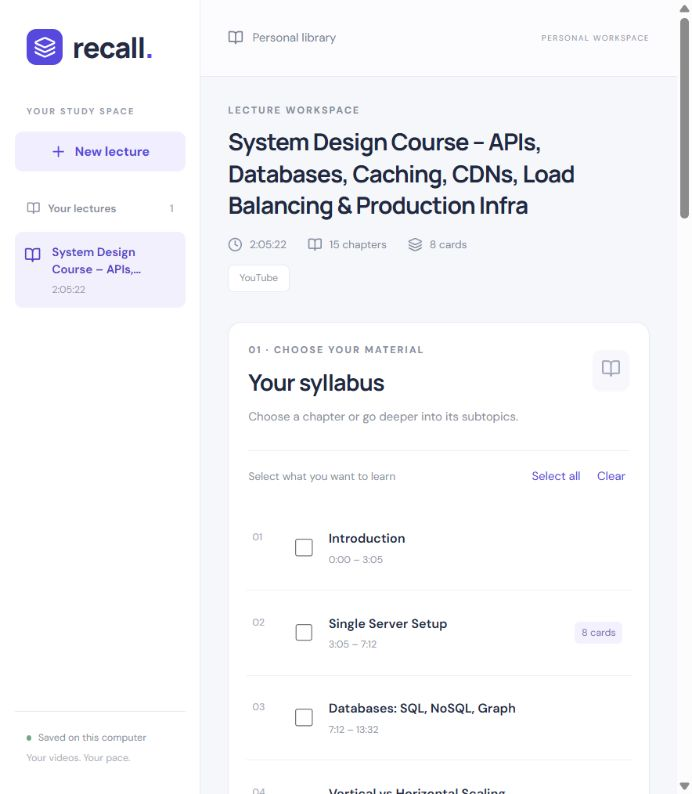
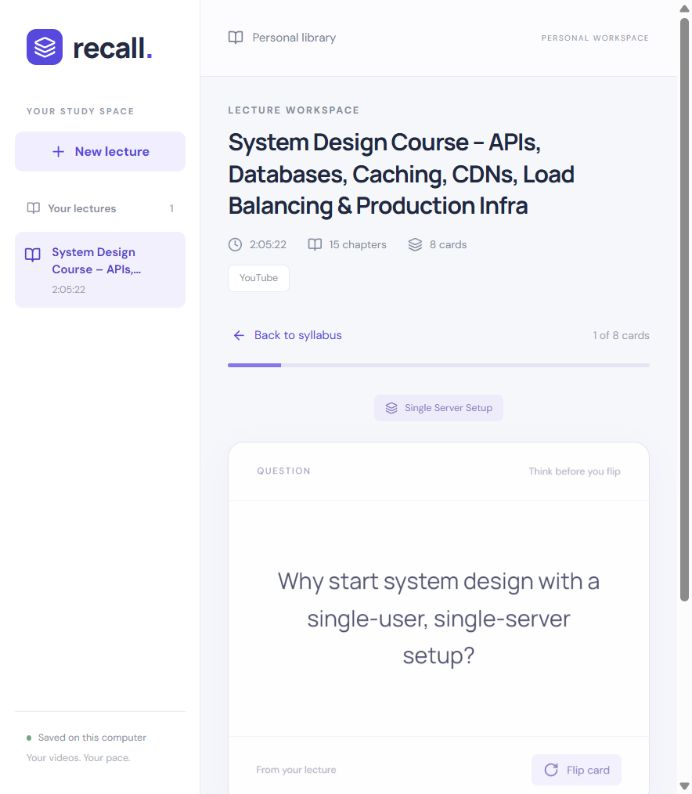
fix: restore active lecture and infer uncovered topics

diff --git a/web/src/App.test.tsx b/web/src/App.test.tsx
@@ -1,6 +1,7 @@
 import {render,screen} from '@testing-library/react';
-import {expect,test,vi} from 'vitest';
+import {beforeEach,expect,test,vi} from 'vitest';
 import App from './App';
+beforeEach(()=>sessionStorage.clear());
 test('a prepared syllabus has no automatic flashcards and empty selection disables generation',async()=>{
  const lesson={id:'lesson',title:'Test lecture',duration:600,source_kind:'youtube',youtube_id:'C842vFY5kRo',media_url:null,syllabus:[{id:'p',title:'Actual chapter',start:0,end:600,parent_id:null,inferred:false}],cards:[],gaps:[],completed_intervals:[],jobs:[]};
  vi.stubGlobal('fetch',async(input:RequestInfo|URL)=>new Response(JSON.stringify(String(input).endsWith('/health')?{status:'ok',provider_configured:true}:String(input).endsWith('/lectures')?[{id:'lesson',title:'Test lecture',duration:600}]:lesson),{status:200,headers:{'Content-Type':'application/json'}}));
@@ -8,5 +9,20 @@ test('a prepared syllabus has no automatic flashcards and empty selection disabl
  expect(await screen.findByRole('checkbox',{name:'Actual chapter'})).toBeInTheDocument();
  expect(screen.getByRole('button',{name:'Generate flashcards'})).toBeDisabled();
  expect(screen.getByText('No cards generated yet')).toBeInTheDocument();
+ vi.unstubAllGlobals();
+});
+
+test('reload restores the active older lecture and its current answer',async()=>{
+ const base={duration:600,source_kind:'youtube',youtube_id:'C842vFY5kRo',media_url:null,syllabus:[],gaps:[],completed_intervals:[],jobs:[]};
+ const cards=[0,1].map(index=>({id:'old-card-'+index,lecture_id:'older',topic_id:'topic',point_ids:['point'],front:'Old question '+index,back:'Old answer '+index,primary_time:index*10,source_start:index*10,source_end:index*10+5,source_segment_ids:['segment'],source_excerpt:'Old evidence'}));
+ const old={...base,id:'older',title:'Older lecture',cards};
+ const recent={...base,id:'recent',title:'Recent lecture',cards:[]};
+ sessionStorage.setItem('recall-active-lecture','older');
+ sessionStorage.setItem('recall-session-older',JSON.stringify({cardIds:cards.map(c=>c.id),index:1,flipped:true}));
+ vi.stubGlobal('fetch',async(input:RequestInfo|URL)=>new Response(JSON.stringify(String(input).endsWith('/health')?{status:'ok',provider_configured:true}:String(input).endsWith('/lectures')?[{id:'recent',title:recent.title,duration:600},{id:'older',title:old.title,duration:600}]:String(input).endsWith('/older')?old:recent),{status:200,headers:{'Content-Type':'application/json'}}));
+ render(<App/>);
+ expect(await screen.findByText('2 of 2 cards')).toBeInTheDocument();
+ expect(screen.getByRole('heading',{name:'Older lecture'})).toBeInTheDocument();
+ expect(screen.getByRole('button',{name:'Show question'})).toHaveTextContent('Old answer 1');
  vi.unstubAllGlobals();
 });

diff --git a/web/src/App.tsx b/web/src/App.tsx
@@ -15,8 +15,8 @@ export default function App(){
  const activeId=useRef(id);activeId.current=id;
  const [session,setSession]=useState<StudySession|null>(null);const resumed=useRef<string|null>(null);
  async function refresh(target:string){const result=await api.lecture(target);if(activeId.current===target){setLecture(result);if(resumed.current!==target){resumed.current=target;const saved=readSession('recall-session-'+target);if(saved&&result.cards.length){setSession(reconcileSession(saved,result.cards));setLaunch({mode:'all',intervals:[]});}}}}
- useEffect(()=>{let active=true;Promise.all([api.list(),api.health()]).then(([items,health])=>{if(!active)return;setLibrary(items);setConfigured(health.provider_configured);if(items.length)setId(items[0].id);}).catch(()=>{if(active)setError('The local service is unavailable. Start the app service and reload.');});return()=>{active=false;};},[]);
- useEffect(()=>{setLecture(null);setSelection([]);setLaunch(null);setSession(null);resumed.current=null;setError('');if(id)refresh(id).catch(e=>setError(e.message));},[id]);
+ useEffect(()=>{let active=true;Promise.all([api.list(),api.health()]).then(([items,health])=>{if(!active)return;setLibrary(items);setConfigured(health.provider_configured);let preferred:string|null=null;try{preferred=sessionStorage.getItem('recall-active-lecture');}catch{}const initial=items.find(item=>item.id===preferred)||items[0];if(initial)setId(initial.id);}).catch(()=>{if(active)setError('The local service is unavailable. Start the app service and reload.');});return()=>{active=false;};},[]);
+ useEffect(()=>{setLecture(null);setSelection([]);setLaunch(null);setSession(null);resumed.current=null;setError('');if(id){try{sessionStorage.setItem('recall-active-lecture',id);}catch{}refresh(id).catch(e=>setError(e.message));}},[id]);
  const job=lecture?.jobs.find(j=>j.status==='running'||j.status==='queued')||lecture?.jobs.at(-1);
  const processing=!!job&&['running','queued'].includes(job.status);
  useEffect(()=>{if(!id||!processing)return;const timer=setInterval(()=>{refresh(id).catch(e=>setError(e.message));api.list().then(setLibrary).catch(()=>{});},2000);return()=>clearInterval(timer);},[id,processing]);

diff --git a/backend/app/syllabus/build.py b/backend/app/syllabus/build.py
@@ -1,5 +1,5 @@
 import hashlib,re
-from ..models import Interval,SyllabusNode
+from ..models import SyllabusNode,ChapterSeed
 from ..errors import ProcessingError
 from ..jobs import JobQueue
 from ..importing.youtube import import_youtube
@@ -19,26 +19,35 @@ def chapter_roots(source):
     if roots and cursor<source.duration:roots.append(SyllabusNode(id=node_id(source.lecture_id,cursor,source.duration),title='Additional material',start=cursor,end=source.duration,inferred=True))
     return roots
 
+def inferred_roots(source,proposals,start,end):
+    roots=[]
+    tops=sorted([p for p in proposals if p.parent_start is None and start<=p.start<p.end<=end],key=lambda p:(p.start,p.end))
+    for p in tops:
+        if roots and p.start<roots[-1].end:continue
+        if roots and p.start<=roots[-1].end+2 and re.sub(r'\W','',p.title.casefold())==re.sub(r'\W','',roots[-1].title.casefold()):
+            previous=roots.pop();p=p.model_copy(update={'start':previous.start})
+        cursor=roots[-1].end if roots else start
+        if cursor<p.start:roots.append(SyllabusNode(id=node_id(source.lecture_id,cursor,p.start),title='Additional material',start=cursor,end=p.start,inferred=True))
+        roots.append(SyllabusNode(id=node_id(source.lecture_id,p.start,p.end),title=p.title.strip(),start=p.start,end=p.end,inferred=True))
+    cursor=roots[-1].end if roots else start
+    if cursor<end:roots.append(SyllabusNode(id=node_id(source.lecture_id,cursor,end),title='Additional material',start=cursor,end=end,inferred=True))
+    return roots
+
 def build_syllabus(source,segments,provider):
     if not segments:raise ProcessingError('transcript_missing','A timestamped transcript is needed before preparing the syllabus.')
     roots=chapter_roots(source)
+    valid_chapters=[ChapterSeed(title=n.title,start=n.start,end=n.end) for n in roots if not n.inferred]
     proposals=[]
     for start in range(0,max(1,int(source.duration)),600):
         window=[s for s in segments if s.end>start and s.start<start+600]
-        if window:proposals.extend(provider.propose_syllabus(window,source.chapters))
+        if window:proposals.extend(provider.propose_syllabus(window,valid_chapters))
     evidence={s.id:s for s in segments}
-    usable=[p for p in proposals if p.end<=source.duration and p.title.strip() and p.source_segment_ids and all(id in evidence for id in p.source_segment_ids)]
+    usable=[p for p in proposals if p.end<=source.duration and p.title.strip() and p.source_segment_ids and all(id in evidence and evidence[id].end>p.start and evidence[id].start<p.end for id in p.source_segment_ids)]
     if not roots:
-        tops=sorted([p for p in usable if p.parent_start is None],key=lambda p:(p.start,p.end))
-        for p in tops:
-            if roots and p.start<roots[-1].end:continue
-            if roots and p.start<=roots[-1].end+2 and re.sub(r'\W','',p.title.casefold())==re.sub(r'\W','',roots[-1].title.casefold()):
-                previous=roots.pop();p=p.model_copy(update={'start':previous.start})
-            cursor=roots[-1].end if roots else 0
-            if cursor<p.start:roots.append(SyllabusNode(id=node_id(source.lecture_id,cursor,p.start),title='Additional material',start=cursor,end=p.start,inferred=True))
-            roots.append(SyllabusNode(id=node_id(source.lecture_id,p.start,p.end),title=p.title.strip(),start=p.start,end=p.end,inferred=True))
-        if not roots:raise ProcessingError('syllabus_incomplete','No supported topics were identified. Retry syllabus preparation.')
-        if roots[-1].end<source.duration:roots.append(SyllabusNode(id=node_id(source.lecture_id,roots[-1].end,source.duration),title='Additional material',start=roots[-1].end,end=source.duration,inferred=True))
+        if not any(p.parent_start is None for p in usable):raise ProcessingError('syllabus_incomplete','No supported topics were identified. Retry syllabus preparation.')
+        roots=inferred_roots(source,usable,0,source.duration)
+    else:
+        roots=[node for root in roots for node in (inferred_roots(source,usable,root.start,root.end) if root.inferred else [root])]
     children=[]
     for p in sorted(usable,key=lambda p:(p.start,p.end)):
         parent=next((r for r in roots if r.start==p.parent_start and r.start<=p.start<p.end<=r.end),None)

diff --git a/backend/app/providers/openai_provider.py b/backend/app/providers/openai_provider.py
@@ -34,7 +34,7 @@ class OpenAIProvider:
         except ProcessingError:raise
         except Exception:raise ProcessingError('transcription_failed','Transcription failed. Check provider access and retry the audio stage.') from None
     def propose_syllabus(self,segments,chapters):
-        return self._parse('Prepare meaningful topic boundaries. Preserve supplied instructor chapters exactly; propose only distinct child concepts within them, using parent_start equal to the chapter start. Children require at least 120 seconds and two distinct substantive point_summaries. Do not split brief mentions. If no chapters exist, propose top-level intervals with parent_start=null, using semantic boundaries and stable descriptive titles across adjacent windows. Times are lecture seconds from transcript evidence. Cite supporting source_segment_ids. Do not invent content for visual-only references.',{'segments':[s.model_dump() for s in segments],'chapters':[c.model_dump() for c in chapters]},SyllabusOutput).proposals
+        return self._parse('Prepare meaningful topic boundaries. Preserve supplied instructor chapters exactly. Within them propose distinct child concepts using parent_start equal to the chapter start. Children require at least 120 seconds and two distinct substantive point_summaries. Do not split brief mentions. For transcript intervals not covered by supplied chapters, or when no chapters exist, propose top-level intervals with parent_start=null, using semantic boundaries and stable descriptive titles across adjacent windows. Keep inferred intervals inside uncovered gaps; never cross instructor boundaries. Times are lecture seconds from transcript evidence. Cite supporting source_segment_ids. Do not invent content for visual-only references.',{'segments':[s.model_dump() for s in segments],'chapters':[c.model_dump() for c in chapters]},SyllabusOutput).proposals
     def extract_points(self,segments,selected):
         return self._parse('Identify every substantive teaching point actually explained in the selected ranges: definitions, mechanisms, comparisons, reasoning, examples, code, equations, and procedures. Use focused, descriptive summaries. Exclude introductions, sponsors and irrelevant remarks. Primary evidence must begin within a selected range. Context outside selection only clarifies references, never supplies a new teaching point. Cite real segment IDs. Mark visual_gap=true when the point requires an unexplained on-screen diagram, code or slide; do not reconstruct it from background knowledge. Use local point IDs.',{'segments':[s.model_dump() for s in segments],'selected_ranges':[i.model_dump() for i in selected]},PointsOutput).points
     def generate_cards(self,points,segments):

diff --git a/backend/tests/test_launcher.py b/backend/tests/test_launcher.py
@@ -1,4 +1,4 @@
-import importlib.util
+import importlib.util,subprocess,sys
 from pathlib import Path
 import pytest
 spec=importlib.util.spec_from_file_location('process_info',Path(__file__).parents[2]/'scripts/process_info.py')
@@ -19,3 +19,20 @@ def test_launch_records_python_wrapper_and_worker_but_not_console_host():
 
 def test_launch_rejects_a_root_process_with_a_different_command():
     with pytest.raises(ValueError):module.record_tree(Process(1,['python.exe','another_app.py']),'api')
+
+def select_python(app_root,runtime_expression='$null'):
+    powershell=Path('C:/Users/anyor/.cache/codex-runtimes/codex-primary-runtime/dependencies/native/powershell/pwsh.exe')
+    if sys.platform!='win32' or not powershell.exists():pytest.skip('PowerShell runtime selection check requires the local Windows test runtime.')
+    script=Path(__file__).parents[2]/'scripts/runtime.ps1'
+    command=f". '{str(script).replace(chr(39),chr(39)*2)}'; Get-RecallPython -AppRoot '{str(app_root).replace(chr(39),chr(39)*2)}' -Runtime {runtime_expression}"
+    result=subprocess.run([str(powershell),'-NoProfile','-Command',command],capture_output=True,text=True)
+    assert result.returncode==0,result.stderr
+    return result.stdout.strip()
+
+def test_fresh_setup_launcher_uses_the_created_virtual_environment(tmp_path):
+    python=tmp_path/'.venv/Scripts/python.exe';python.parent.mkdir(parents=True);python.touch()
+    assert Path(select_python(tmp_path))==python
+
+def test_explicit_configured_runtime_takes_priority_over_local_environment(tmp_path):
+    python=tmp_path/'.venv/Scripts/python.exe';python.parent.mkdir(parents=True);python.touch()
+    assert select_python(tmp_path,"([pscustomobject]@{python='configured-python.exe'})")=='configured-python.exe'

diff --git a/backend/tests/test_syllabus.py b/backend/tests/test_syllabus.py
@@ -42,3 +42,9 @@ def test_preparing_stored_transcript_never_generates_cards(repo):
     assert repo.get_lecture('lesson').cards==[]
     assert len(repo.get_lecture('lesson').syllabus)==1
     assert all(j.kind=='prepare' for j in repo.get_lecture('lesson').jobs)
+
+def test_partial_chapters_infer_topics_in_uncovered_gap_without_changing_instructor_bounds():
+    chapters=[ChapterSeed(title='Introduction',start=0,end=120),ChapterSeed(title='Conclusion',start=480,end=600)]
+    proposals=[SyllabusProposal(title='Caching strategies',start=120,end=300,parent_start=None,point_summaries=['Cache hits','Cache misses'],source_segment_ids=['s1']),SyllabusProposal(title='Eviction strategies',start=300,end=480,parent_start=None,point_summaries=['LRU','Capacity'],source_segment_ids=['s2'])]
+    nodes=build_syllabus(source(chapters),segments(),Provider(proposals))
+    assert [(n.title,n.start,n.end,n.inferred) for n in nodes if n.parent_id is None]==[('Introduction',0,120,False),('Caching strategies',120,300,True),('Eviction strategies',300,480,True),('Conclusion',480,600,False)]

diff --git a/IMPLEMENTATION-NOTES.md b/IMPLEMENTATION-NOTES.md
@@ -1,0 +1,19 @@
+# Implementation decisions and review
+
+Ruling: Fresh project repository on feature/video-flashcards provides isolation — no existing checkout to protect — cost if wrong: relocate the app.
+Ruling: Use native Python ledger/brief helpers because Git Bash cannot create signal pipes in this Windows sandbox — preserve the same plan identity and per-task records — cost if wrong: bookkeeping may need reconciliation.
+Ruling: Development venv temp directories inherit workspace permissions because Python mode 0700 drops sandbox access — shim limited to this local development environment — cost if wrong: remove shim before distribution.
+Task 4: Ruling: Preserve valid chapter end times and infer gaps rather than extending chapters to the next start — the spec preserves instructor boundaries — cost if wrong: revise gap labeling.
+Task 5: Ruling: validate_candidate receives lecture_id and nodes as keyword arguments — its promised Card return requires source identity and topic assignment — cost if wrong: update helper callers.
+Task 6: Ruling: Regeneration stages every selected unit before one atomic replacement; new generation commits topics independently — preserves old decks on replacement failure and allows partial new results — cost if wrong: failed regeneration repeats model work.
+Task 7: Ruling: Run Node CLI entrypoints directly and handle the optional failed Vite network-drive query in a development-only shim — this sandbox blocks command-shell spawning — cost if wrong: mapped-drive projects need another runtime; this project uses a local drive.
+Task 9: Ruling: Run the same browser flow with Python Playwright because Node Playwright cannot spawn its worker in this sandbox — browser assertions remain real and the portable TypeScript test is retained — cost if wrong: harness differences may hide a Node-only test-runner issue.
+Task 9: Ruling: Browser checks run through the provided CUA Playwright interface; the earlier Python harness choice is superseded by the browser-tool requirement — retain the portable TypeScript E2E test — cost if wrong: scripted checks need a normal Windows terminal to run.
+Task 9: Ruling: Shorten one live example answer to its explicitly cited facts after manual audit — the model accepted an uncited extra phrase — cost if wrong: the example loses optional detail.
+Final review: fresh independent reviewer, gpt-6-astra; no Critical, two Important and two Minor; Declined to judge: none.
+Final: Ruling: Re-grade fresh-install runtime selection as Important — following the promised setup instructions must launch the installed dependencies — cost if wrong: an extra small runtime-selection helper.
+Final: fixed older-lecture reload — reload restores the active older lecture and its current answer RED→GREEN, suite 14/14 frontend and 62/62 backend; also verified in browser.
+Final: fixed inference within missing chapter intervals — test_partial_chapters_infer_topics_in_uncovered_gap_without_changing_instructor_bounds RED→GREEN, suite 62/62 backend and 14/14 frontend.
+Final: fixed fresh-install runtime selection — test_fresh_setup_launcher_uses_the_created_virtual_environment and explicit runtime precedence RED→GREEN, suite 62/62 backend and 14/14 frontend.
+Final: minor (deferred): Enter does not activate the card hit area; click, Space, and the Flip button work.
+Final: Ruling: Keep the standalone app on feature/video-flashcards — no existing base branch or remote requires integration, and the user authorized completing the local app — cost if wrong: perform a later merge or push when requested.

diff --git a/VERIFICATION.md b/VERIFICATION.md
@@ -18,7 +18,9 @@ Every example card's primary timestamp falls inside the selected chapter, every 
 - Origin checks accept the local bound port, reject external origins and malformed ports, and reject untrusted Host headers.
 - Hidden PowerShell launcher started the API and worker; stop verifies recorded process executable, creation time, and command before termination. A regression test covers the Windows console-host child process.
 
-Final post-review counts and fixes will be recorded below.
+The independent review identified two important behavior defects: reloading an older lecture opened the newest import, and partially missing chapter metadata prevented inferred topics in the gaps. Both were reproduced with failing tests and fixed. A setup issue was also fixed so a fresh installation uses its local virtual environment. The final suite passed **62 backend tests (including a real API connection), 14 frontend tests, TypeScript checking, and the production build**. The two-lecture reload fix also passed in the browser, retaining the older lecture's second card and answer side. No critical findings were reported.
+
+One minor accessibility improvement is deferred: Enter on the focusable card area does not flip it. Clicking, Space, and the explicit Flip button work.
 
 ## Browser checks
 
@@ -30,6 +32,7 @@ The complete flow was exercised through the supplied browser tools against an is
 - Right arrow advanced to card 2 and reset its answer side; Space flipped it. Reload retained card 2 and the answer side.
 - A later selected chapter failed deliberately. The completed first chapter's 3 cards survived. Retry finished the remaining chapter, yielding 4 cards.
 - Studying one topic included only that topic's card.
+- A whole-lecture mix included all 4 generated fixture cards.
 - The study layout at 390 pixels wide had a 390-pixel document width and no horizontal overflow. The desktop layout and real lecture workspace were visually inspected.
 
 The Node Playwright runner could not start its worker inside this Windows sandbox (`spawn EPERM`). Its portable test and config are retained for running in a normal terminal; the equivalent browser flow above passed here. Offline fixture checks are distinct from the real lecture/provider checks.

diff --git a/README.md b/README.md
@@ -46,7 +46,7 @@ Copy-Item .env.example .env
 
 In `.env`, set `OPENAI_API_KEY`, `FFMPEG_PATH`, and `FFPROBE_PATH`. The latter two should be full executable paths or names on PATH. The optional `OPENAI_TEXT_MODEL` defaults to `gpt-4.1-mini-2025-04-14`. Use an account with access to that model and Whisper transcription.
 
-The launcher uses `scripts/runtime.json` when present, otherwise Python and Node from PATH. A local runtime file can specify `python` and `node` executable paths. On another computer, remove or update that ignored file. The current computer's runtime and downloaded executables are in the sibling `../../work/video-flashcards-runtime` folder; keep that folder when using the configured launcher here.
+The launcher uses `scripts/runtime.json` when configured, then prefers `.venv/Scripts/python.exe`, then Python from PATH. Node uses its configured path or PATH. A local runtime file can specify `python` and `node` executable paths. On another computer, remove or update that ignored file. The current computer's runtime and downloaded executables are in the sibling `../../work/video-flashcards-runtime` folder; keep that folder when using the configured launcher here.
 
 ## Data and provider use
 
